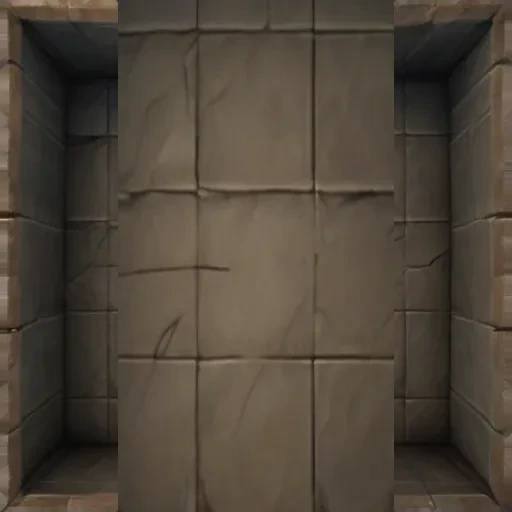
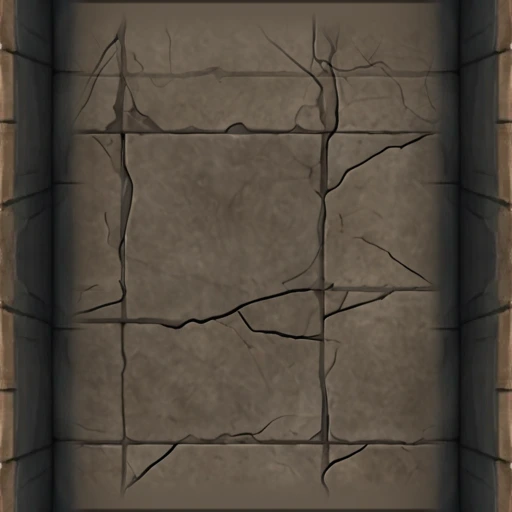
#857: regenerated, seamlessly-joining corridor art (#871)
Refs #857 (in-game verification pending)

diff --git a/tools/compose-corridor-pieces.py b/tools/compose-corridor-pieces.py
@@ -1,0 +1,177 @@
+#!/usr/bin/env python3
+"""Compose the five shipped corridor floor pieces (#857) from shared source
+assets in tools/corridor-art-sources/ instead of #823's "paste a patch over a
+closed box" approach. Every piece's open edge is the SAME floor pixels by
+construction, so two pieces joined side by side show no seam.
+
+Canonical openings (verbatim from scripts/corridor-pieces.mjs's own doc
+comment -- tests/corridor-pieces.test.mjs cross-checks this stays in sync):
+  end@0 open S; mid@0 open N+S; corner@0 walls N+W, open S+E.
+(Foundry rotates tiles clockwise; single = walls on all four sides.)
+
+Sources (see tools/corridor-art-sources/):
+  floor.png       ComfyUI-generated flagstone floor (1024px). The central crop
+                  is made periodic (wrap-blended) so a tile's left edge
+                  continues its right edge and top continues bottom: that is
+                  what makes adjacent pieces' open edges seamless.
+  wall-strip.png  the wall rim + sloped face band cropped from the previous
+                  corridor.webp (generation could not deliver a matching strip).
+                  It is mirror-tiled to the tile width with a period equal to
+                  the tile size, so it also wraps seamlessly along the wall.
+  rubble-fill.png the rubble pile from the previous corridor-rubble.webp.
+
+Walls: one N-wall layer is rotated for the other sides. Where two walls meet
+the strips are mitred on the 45 degree diagonal (feathered); the wall's inner
+edge fades softly into the floor so it does not read as a pasted rectangle.
+
+Usage:
+    .venv/bin/python tools/compose-corridor-pieces.py [--out assets/dungeon-rooms]
+"""
+import argparse
+from pathlib import Path
+
+import numpy as np
+from PIL import Image
+
+SRC = Path(__file__).resolve().parent / "corridor-art-sources"
+
+# walls per piece at rotation 0
+PIECES = {
+    "corridor.webp": "NESW",   # single
+    "corridor-end.webp": "NEW",  # open S
+    "corridor-mid.webp": "EW",   # open N+S
+    "corridor-corner.webp": "NW",  # open S+E
+    "corridor-rubble.webp": "NEW",  # end shape + rubble
+}
+
+
+def load(p):
+    return np.asarray(Image.open(p).convert("RGB"), dtype=np.float32)
+
+
+def make_periodic(big, n, b):
+    """n x n tile from big (>= n+b square) whose edges wrap seamlessly."""
+    s = big[: n + b, : n + b]
+    w = (np.arange(b, dtype=np.float32) / b)
+    w = (w * w * (3 - 2 * w))  # smoothstep 0->1
+    # x axis
+    tx = s[:, :n].copy()
+    tx[:, :b] = w[None, :, None] * s[:, :b] + (1 - w[None, :, None]) * s[:, n:n + b]
+    # y axis
+    t = tx[:n].copy()
+    t[:b] = w[:, None, None] * tx[:b] + (1 - w[:, None, None]) * tx[n:n + b]
+    return t
+
+
+def smooth(x):
+    x = np.clip(x, 0, 1)
+    return x * x * (3 - 2 * x)
+
+
+def floor_tile(n, b=128, flat=8, blend=40):
+    """Periodic floor crop whose outer rim is a flat, perfectly symmetric
+    joint: a thin dark grout line on the tile border (two abutting tiles make
+    one slab joint) over the floor's mean colour. The rim is identical on all
+    four sides and constant along each side, so ANY rotation of ANY piece
+    meets any neighbour's open edge continuously (rotation-safe by design),
+    and the real slab detail fades in over `blend` px."""
+    big = load(SRC / "floor.png")
+    h, w = big.shape[:2]
+    y0, x0 = (h - (n + b)) // 2, (w - (n + b)) // 2
+    p = make_periodic(big[y0:y0 + n + b, x0:x0 + n + b], n, b)
+    mean = p.reshape(-1, 3).mean(axis=0)
+    lum = p.mean(axis=2)
+    grout = p[lum <= np.percentile(lum, 6)].mean(axis=0)
+    yy, xx = np.mgrid[0:n, 0:n].astype(np.float32)
+    d = np.minimum(np.minimum(xx, n - 1 - xx), np.minimum(yy, n - 1 - yy))
+    m = (1 - smooth((d - flat) / blend))[..., None]
+    g = (1 - smooth((d - 1.0) / 3.0))[..., None]
+    q = mean[None, None, :] * (1 - g) + grout[None, None, :] * g
+    return p * (1 - m) + q * m
+
+
+def north_layer(n, depth):
+    """n x n RGB with the wall band along the top (rim at row 0)."""
+    strip = load(SRC / "wall-strip.png")
+    sh, sw = strip.shape[:2]
+    # mirror-tile to a period of exactly n
+    reps = [strip, strip[:, ::-1]]
+    row = np.concatenate(reps * (n // (2 * sw) + 1), axis=1)[:, :n]
+    band = np.asarray(Image.fromarray(row.astype(np.uint8)).resize((n, depth), Image.LANCZOS), dtype=np.float32)
+    out = np.zeros((n, n, 3), np.float32)
+    out[:depth] = band
+    return out
+
+
+def side_alpha(n, depth, walls, fade, miter_feather=10.0):
+    yy, xx = np.mgrid[0:n, 0:n].astype(np.float32)
+    d = {"N": yy, "S": n - 1 - yy, "W": xx, "E": n - 1 - xx}
+    perp = {"N": "EW", "S": "EW", "E": "NS", "W": "NS"}
+    alphas = {}
+    for s in walls:
+        a = smooth((depth - d[s]) / fade)  # soft inner edge
+        for t in perp[s]:
+            if t in walls:
+                # diagonal mitre: this strip owns pixels nearer its own edge
+                a = a * smooth((d[t] - d[s]) / miter_feather + 0.5)
+        alphas[s] = a
+    return alphas
+
+
+ROT = {"N": 0, "W": 1, "S": 2, "E": 3}  # np.rot90 k (counter-clockwise)
+
+
+def build_piece(floor, north, walls, n, depth, fade=26):
+    out = floor.copy()
+    # soft shadow cast by each wall onto the floor
+    yy, xx = np.mgrid[0:n, 0:n].astype(np.float32)
+    d = {"N": yy, "S": n - 1 - yy, "W": xx, "E": n - 1 - xx}
+    shade = np.ones((n, n), np.float32)
+    for s in walls:
+        shade *= 1 - 0.18 * np.exp(-np.maximum(d[s] - depth, 0) / 24.0)
+    out *= shade[..., None]
+    alphas = side_alpha(n, depth, walls, fade)
+    for s in "NEWS":
+        if s not in walls:
+            continue
+        layer = np.rot90(north, ROT[s])
+        a = alphas[s][..., None]
+        out = out * (1 - a) + layer * a
+    return out
+
+
+def add_rubble(img, n):
+    rub = Image.open(SRC / "rubble-fill.png").convert("RGB")
+    pw, ph = int(n * 0.80), int(n * 0.56)
+    rub = np.asarray(rub.resize((pw, ph), Image.LANCZOS), dtype=np.float32)
+    cx, cy = n // 2, int(n * 0.60)
+    yy, xx = np.mgrid[0:n, 0:n].astype(np.float32)
+    # rounded blob mask: superellipse, feathered
+    r = (np.abs((xx - cx) / (pw / 2)) ** 3 + np.abs((yy - cy) / (ph / 2)) ** 3) ** (1 / 3)
+    a = smooth((1.0 - r) / 0.25)
+    full = np.zeros((n, n, 3), np.float32)
+    x0, y0 = cx - pw // 2, cy - ph // 2
+    full[y0:y0 + ph, x0:x0 + pw] = rub
+    return img * (1 - a[..., None]) + full * a[..., None]
+
+
+def main():
+    ap = argparse.ArgumentParser()
+    ap.add_argument("--out", default="assets/dungeon-rooms")
+    ap.add_argument("--size", type=int, default=512)
+    ap.add_argument("--wall-depth", type=int, default=92)
+    a = ap.parse_args()
+    n = a.size
+    floor = floor_tile(n)
+    north = north_layer(n, a.wall_depth)
+    out = Path(a.out)
+    out.mkdir(parents=True, exist_ok=True)
+    for name, walls in PIECES.items():
+        base = add_rubble(floor, n) if name == "corridor-rubble.webp" else floor
+        img = build_piece(base, north, walls, n, a.wall_depth)
+        Image.fromarray(np.clip(img, 0, 255).astype(np.uint8)).save(out / name, "WEBP", quality=92)
+        print(f"-> {out / name}")
+
+
+if __name__ == "__main__":
+    main()

diff --git a/docs/superpowers/plans/2026-10-06-corridor-art-regeneration.md b/docs/superpowers/plans/2026-10-06-corridor-art-regeneration.md
@@ -39,19 +39,19 @@
 
 No test: pure content generation, reviewed by eye per Step 3 below.
 
-- [ ] **Step 1: Generate the floor texture**
+- [x] **Step 1: Generate the floor texture**
 
 Via ComfyUI (matching this repo's own established generation conventions — `tools/room-feature-art-prompts.mjs`'s own `THEME_FLAVOR`-style prompt structure is a reasonable model to borrow phrasing from, even though this is a new asset category with no existing prompt table of its own): a seamless, tileable, top-down dungeon stone floor — large worn flagstones, subtle cracks and weathering, consistent muted brown-grey tone matching the existing corridor art's own palette (confirmed current: warm grey-brown stone, visible in `corridor.webp`), lit evenly with no strong directional shadow (so it reads correctly from any side a wall strip gets composited against it), no walls, no vignette, no border — generate at a size comfortably larger than the 512×512 target tile (e.g. 768×768 or 1024×1024) so Task 2 can crop a clean, edge-agnostic floor region from its center with room to spare.
 
-- [ ] **Step 2: Generate the wall-bevel edge strip**
+- [x] **Step 2: Generate the wall-bevel edge strip**
 
 Via ComfyUI: a single straight dungeon-wall edge in the same top-down perspective and material as the existing corridor art's own wall trim (confirmed current: a warm wood/stone bevel along the tile's outer edge, visible in every existing piece) — a long horizontal strip, consistent depth, matching the floor texture's own lighting and palette so a composite seam doesn't itself read as a seam. Generate wide enough to crop a clean strip from (avoiding the generation's own edges/artifacts), at the same working resolution as the floor texture.
 
-- [ ] **Step 3: Review both source assets**
+- [x] **Step 3: Review both source assets**
 
 Confirm by eye: the floor texture tiles acceptably (no obvious repeating artifact when viewed at the crop size Task 2 will use), has even lighting across its whole area (no bright/dark corner that would look wrong rotated), and the wall strip's own lighting/material genuinely matches the floor texture rather than looking like a different scene pasted alongside it. Reroll either asset if not — this is the foundation every one of the 5 shipped pieces is built from, so it's worth getting right before Task 2 composites anything from it.
 
-- [ ] **Step 4: Commit the working source assets**
+- [x] **Step 4: Commit the working source assets**
 
 ```bash
 git add <floor-texture-path> <wall-strip-path>
@@ -71,7 +71,7 @@ Co-Authored-By: Claude Sonnet 5 <noreply@anthropic.com>"
 **Interfaces:**
 - Produces: a CLI tool writing `single.webp`/`end.webp`/`mid.webp`/`corner.webp`/`rubble.webp` (or directly the final `corridor*.webp` names, matching Task 3's own needs) from the two Task 1 source assets, keyed by the same canonical opening spec `scripts/corridor-pieces.mjs` already defines.
 
-- [ ] **Step 1: Write the drift-guard test first**
+- [x] **Step 1: Write the drift-guard test first**
 
 Add to `tests/corridor-pieces.test.mjs` (confirmed current, covers `PIECE_OPENINGS`/`corridorPieceForOpenings` already):
 
@@ -93,12 +93,12 @@ describe('compose-corridor-pieces.py stays in sync with PIECE_OPENINGS (#857)', 
 });
 ```
 
-- [ ] **Step 2: Run the test to verify it fails**
+- [x] **Step 2: Run the test to verify it fails**
 
 Run: `npx vitest run tests/corridor-pieces.test.mjs -t "compose-corridor-pieces"`
 Expected: FAIL — the python file doesn't exist yet.
 
-- [ ] **Step 3: Write the compositing tool**
+- [x] **Step 3: Write the compositing tool**
 
 ```python
 #!/usr/bin/env python3
@@ -206,17 +206,17 @@ if __name__ == "__main__":
 
 (`--wall-depth` and the rubble-fill compositing rectangle are starting points — Task 3's own review step is where these get tuned against how they actually look, not treated as final on the first run.)
 
-- [ ] **Step 4: Run the test to verify it passes**
+- [x] **Step 4: Run the test to verify it passes**
 
 Run: `npx vitest run tests/corridor-pieces.test.mjs -t "compose-corridor-pieces"`
 Expected: PASS.
 
-- [ ] **Step 5: Run the full test suite to confirm no regression**
+- [x] **Step 5: Run the full test suite to confirm no regression**
 
 Run: `npx vitest run`
 Expected: PASS (the art files themselves haven't been replaced yet — that's Task 3 — so `tests/dungeon-art-edges.test.mjs` still passes against today's existing, not-yet-replaced files).
 
-- [ ] **Step 6: Commit**
+- [x] **Step 6: Commit**
 
 ```bash
 git add tools/compose-corridor-pieces.py tests/corridor-pieces.test.mjs
@@ -235,7 +235,7 @@ Co-Authored-By: Claude Sonnet 5 <noreply@anthropic.com>"
 
 No code changes in this task.
 
-- [ ] **Step 1: Run the compositor**
+- [x] **Step 1: Run the compositor**
 
 ```bash
 .venv/bin/python tools/compose-corridor-pieces.py --floor <floor-source> --wall <wall-strip-source> --out assets/dungeon-rooms
@@ -243,15 +243,15 @@ No code changes in this task.
 
 If the default rubble (end-shape + plain floor on the open side) doesn't read as "collapsed passage" on inspection, generate a small rubble-fill texture (matching the existing `corridor-rubble.webp`'s own rubble-pile material/style) and re-run with `--rubble <rubble-source>`.
 
-- [ ] **Step 2: Build a join contact sheet**
+- [x] **Step 2: Build a join contact sheet**
 
 Write a small script (or extend `make-corridor-corner.py`'s own existing `--preview`/`--proof` pattern, confirmed current) that tiles several of the 5 new pieces together in their real rotations — at minimum: a straight run (several `mid` tiles in a row), an `end`-into-`mid` join, and a `corner` with a `mid` joined to each of its two open sides (matching `corridorPieceForOpenings`'s own real rotation math, confirmed current in `scripts/corridor-pieces.mjs`) — into one image for review.
 
-- [ ] **Step 3: Owner review**
+- [x] **Step 3: Owner review**
 
 Per the issue's own explicit requirement: review the contact sheet before merging. Confirm every join shows continuous floor with no visible seam, every wall edge matches in style, and the corner's own two walls meet convincingly. Redo (regenerate a source asset, retune `--wall-depth`, or adjust the compositor) and re-review if not — this is the real acceptance gate for this entire plan, not a formality.
 
-- [ ] **Step 4: Refresh the edge-quality report**
+- [x] **Step 4: Refresh the edge-quality report**
 
 ```bash
 .venv/bin/python tools/strip-art-white-edge.py assets/dungeon-rooms --report-only
@@ -259,12 +259,12 @@ Per the issue's own explicit requirement: review the contact sheet before mergin
 
 (Confirmed current, `tools/strip-art-white-edge.py`'s own docstring: run this after regenerating any file under `assets/dungeon-rooms/`, or `tests/dungeon-art-edges.test.mjs`'s own hash-pinning test fails.) If it reports a near-white fringe on any new piece, run the script on that file directly (not `--report-only`) to strip it, per its own documented usage, then re-run `--report-only` once more to refresh the report against the cleaned files.
 
-- [ ] **Step 5: Run the full test suite to confirm it passes**
+- [x] **Step 5: Run the full test suite to confirm it passes**
 
 Run: `npx vitest run`
 Expected: PASS — `tests/dungeon-art-edges.test.mjs` (hashes match the refreshed report, no near-white band), `tests/dungeon-room-art.test.mjs`, `tests/dungeon-corridor-joins-sweep.test.mjs`, and `tests/dungeon-scene-corridor-edge-tiles.test.mjs` (confirmed current, all three covering this exact art/geometry area) all stay green with no code changes needed, since every file name and the `CORRIDOR_ART_BY_VARIANT` mapping are unchanged.
 
-- [ ] **Step 6: Commit**
+- [x] **Step 6: Commit**
 
 ```bash
 git add assets/dungeon-rooms/corridor.webp assets/dungeon-rooms/corridor-end.webp assets/dungeon-rooms/corridor-mid.webp assets/dungeon-rooms/corridor-corner.webp assets/dungeon-rooms/corridor-rubble.webp assets/dungeon-rooms/edge-report.json
@@ -284,7 +284,7 @@ Co-Authored-By: Claude Sonnet 5 <noreply@anthropic.com>"
 
 Generate a few real dungeon runs with long/branching corridors (including at least one merge-room junction, to exercise the `corner` piece) and confirm visually (via a connected client, not by panning this session's own camera — see this session's own standing caution from #823's investigation) that the new art shows no seams at any join, including the corner case.
 
-- [ ] **Step 2: Bump module.json's version**
+- [x] **Step 2: Bump module.json's version**
 
 Re-check the current version first (concurrent sessions push to this repo):
 
@@ -294,7 +294,7 @@ git fetch origin main -q && git log origin/main -1 --oneline && grep version mod
 
 Apply a **minor** bump (new generated content replacing shipped art), using whatever the fetch above shows as current.
 
-- [ ] **Step 3: Commit**
+- [x] **Step 3: Commit**
 
 ```bash
 git add module.json
